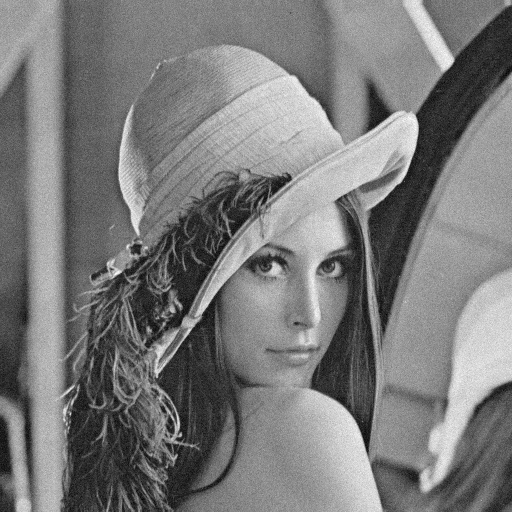
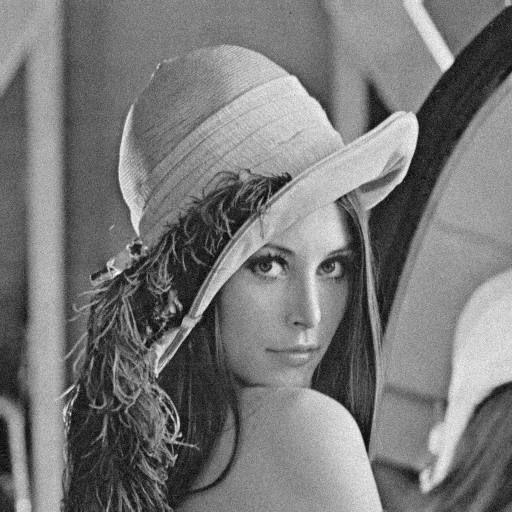
More work on assignment #3

diff --git a/src/image.py b/src/image.py
@@ -209,13 +209,26 @@ def zero_order_hold(
     )
 
 
-def gaussian_blur(image: Image, size: tuple[int, int] = (5, 5), sigma_x=0.5):
-    return cv2.GaussianBlur(image, size, sigma_x)
+# Found Gaussian functions online since I do not have the Matlab source code for those functions
+# listed in the assignment.
+def gaussian_blur(image: np.ndarray, size: tuple[int, int] = (5, 5), sigma: float = 0.5):
+    kx = cv2.getGaussianKernel(ksize=size[0], sigma=sigma)
+    ky = cv2.getGaussianKernel(ksize=size[1], sigma=sigma)
+    h_log = kx @ ky.T
+    blurred = cv2.filter2D(src=image, ddepth=-1, kernel=h_log)
+
+    return blurred
 
 
-def laplacian_of_gaussian(image: Image, size: tuple[int, int] = (5, 5), sigma_x=0.5):
-    gaussian_blurred = gaussian_blur(image, size, sigma_x)
-    return cv2.Laplacian(gaussian_blurred, ddepth=cv2.CV_64F)
+def create_log_gaussian_blur(size: int, sigma: float) -> np.ndarray:
+    ax = np.linspace(-(size // 2), size // 2, size)
+    xx, yy = np.meshgrid(ax, ax)
+    norm = (xx ** 2 + yy ** 2)
+
+    factor = (norm - 2 * sigma ** 2) / (sigma ** 4)
+    gaussian = np.exp(-norm / (2 * sigma ** 2))
+    log = factor * gaussian
+    return log - log.mean()
 
 
 def inverse_gamma_correction(image: np.ndarray, gamma: float = 2.5) -> np.ndarray:
@@ -226,7 +239,7 @@ def calculate_histogram(image: np.ndarray, bins: int = 2) -> np.ndarray:
     image_max = image.max()
     width = (image_max + 1) / bins
 
-    histogram = np.zeros(shape=(1, bins))
+    histogram = np.zeros(bins)
     for intensity in image.flatten():
         index = min(int(intensity / width), bins - 1)
         histogram[index] += 1
@@ -234,7 +247,7 @@ def calculate_histogram(image: np.ndarray, bins: int = 2) -> np.ndarray:
     return histogram
 
 
-def equalize_histogram(image: np.ndarray, bins: int = 2) -> np.ndarray:
+def normalized_histogram(image: np.ndarray, bins: int = 2) -> np.ndarray:
     cdf = calculate_histogram(image, bins).cumsum()
     cdf_normalized = cdf / cdf[-1]
     transform = np.floor(255 * cdf_normalized).astype(np.uint8)
@@ -357,24 +370,7 @@ def low_pass_decimation(
     corner_size_m = decimated_m // 2
     corner_size_n = decimated_n // 2
 
-    real_part = np.zeros(shape=(decimated_m, decimated_n))
-    complex_part = np.zeros(shape=(decimated_m, decimated_n), dtype=np.complex64)
     decimated_low_pass_image = np.zeros(shape=(decimated_m, decimated_n), dtype=np.complex64)
-
-    # I assume you want these two arrays to inspect? I am not entirely sure why we need
-    # two arrays to hold the real part and the imaginary part if we need to combine them
-    # to perform the inverse fft.
-    real_part[0:corner_size_m, 0:corner_size_n] = fft_image.real[0:corner_size_m, 0:corner_size_n]
-    real_part[0:corner_size_m, corner_size_n:decimated_n] = fft_image.real[0:corner_size_m, n - corner_size_n:n]
-    real_part[corner_size_m:decimated_m, 0:corner_size_n] = fft_image.real[m - corner_size_m:m, 0:corner_size_n]
-    real_part[corner_size_m:decimated_m, corner_size_n:decimated_n] = \
-        fft_image.real[m - corner_size_m:m, n - corner_size_n:n]
-
-    complex_part[0:corner_size_m, 0:corner_size_n] = fft_image.imag[0:corner_size_m, 0:corner_size_n]
-    complex_part[0:corner_size_m, corner_size_n:decimated_n] = fft_image.imag[0:corner_size_m, n - corner_size_n:n]
-    complex_part[corner_size_m:decimated_m, 0:corner_size_n] = fft_image.imag[m - corner_size_m:m, 0:corner_size_n]
-    complex_part[corner_size_m:decimated_m, corner_size_n:decimated_n] = \
-        fft_image.imag[m - corner_size_m:m:m, n - corner_size_n:n]
 
     decimated_low_pass_image[0:corner_size_m, 0:corner_size_n] = fft_image[0:corner_size_m, 0:corner_size_n]
     decimated_low_pass_image[0:corner_size_m, corner_size_n:decimated_n] = \
@@ -431,14 +427,14 @@ def mean_squared_error(
     return mse / (m * n)
 
 
-def add_gaussian_noise(image, mean=0, var=50):
+def gaussian_noise(image, mean=0, var=50):
     sigma = var ** 0.5
     gaussian = np.random.normal(mean, sigma, image.shape)
     noisy_img = image + gaussian
     return np.clip(noisy_img, 0, 255)
 
 
-def add_salt_pepper_noise(image, amount=0.05, salt_vs_pepper=0.5):
+def salt_pepper_noise(image, amount=0.05, salt_vs_pepper=0.5):
     noisy_img = np.copy(image)
     num_pixels = image.size
     num_salt = int(amount * num_pixels * salt_vs_pepper)
@@ -453,3 +449,12 @@ def add_salt_pepper_noise(image, amount=0.05, salt_vs_pepper=0.5):
     noisy_img[tuple(coords)] = 0
 
     return noisy_img
+
+
+def median_filter(image: np.ndarray, size: int = 3, n_times: int = 0) -> np.ndarray:
+    filtered_image = cv2.medianBlur(src=image, ksize=size)
+    if n_times > 0:
+        for i in range(n_times):
+            filtered_image = cv2.medianBlur(src=image, ksize=size)
+
+    return filtered_image

diff --git a/src/homework.py b/src/homework.py
@@ -1,26 +1,87 @@
 import logging
 import os
 
+import matplotlib.pyplot as plt
 from image import *
 from PIL import Image
 
 logger = logging.getLogger(__name__)
 
 
-def create_noisy_images(image1: Image.Image) -> None:
-    guassian = add_gaussian_noise(image_to_array(image=image1))
-    salt_and_pepper = add_salt_pepper_noise(image_to_array(image=image1))
+def pre_gamma_correct(image1: Image.Image) -> None:
+    save_image(
+        path=os.path.dirname(os.path.abspath(__file__)) + "/resources/images/generated/",
+        name="lena_gamma.png",
+        image=array_to_image(inverse_gamma_correction(image_to_array(image1)))
+    )
+
+
+def histograms(image1: Image.Image) -> None:
+    bin_values = [2, 128, 256]
+
+    gamma_path = str(os.path.join(
+        os.path.dirname(os.path.abspath(__file__)),
+        'resources/images/generated',
+        'lena_gamma.png'
+    ))
+    gamma_image = load_image(gamma_path)
+
+    for bin_value in bin_values:
+        histogram = calculate_histogram(image_to_array(image1), bins=bin_value)
+        bins = np.arange(start=0, stop=255, step=255 / bin_value)
+
+        plt.bar(bins, histogram, width=1.0, edgecolor='black')
+        plt.xlabel('Bin Index')
+        plt.ylabel('Count')
+        plt.title('Lena.png Histogram Plot')
+        plt.show()
+
+        gamma_histogram = calculate_histogram(image_to_array(gamma_image), bins=bin_value)
+        plt.bar(bins, gamma_histogram, width=1.0, edgecolor='black')
+        plt.xlabel('Bin Index')
+        plt.ylabel('Count')
+        plt.title('Gamma Corrected Histogram Plot')
+        plt.show()
+
+    save_image(
+        path=os.path.dirname(os.path.abspath(__file__)) + "/resources/images/generated/",
+        name="lena_histogram_normalized.png",
+        image=array_to_image(normalized_histogram(image_to_array(gamma_image), bins=256))
+    )
+
+
+def noisy_images(image1: Image.Image) -> None:
+    gaussian = gaussian_noise(image_to_array(image=image1))
+    salt_and_pepper = salt_pepper_noise(image_to_array(image=image1))
 
     save_image(
         path=os.path.dirname(os.path.abspath(__file__)) + "/resources/images/generated/",
         name="lena_g.png",
-        image=array_to_image(guassian)
+        image=array_to_image(gaussian)
     )
 
     save_image(
         path=os.path.dirname(os.path.abspath(__file__)) + "/resources/images/generated/",
         name="lena_s.png",
         image=array_to_image(salt_and_pepper)
+    )
+
+    save_image(
+        path=os.path.dirname(os.path.abspath(__file__)) + "/resources/images/generated/",
+        name="lena_s_median_1.png",
+        image=array_to_image(median_filter(image=salt_and_pepper, n_times=1))
+    )
+
+    save_image(
+        path=os.path.dirname(os.path.abspath(__file__)) + "/resources/images/generated/",
+        name="lena_g_median_1.png",
+        image=array_to_image(median_filter(image=gaussian))
+    )
+
+    save_image(
+        path=os.path.dirname(os.path.abspath(__file__)) + "/resources/images/generated/",
+        name="lena_s_median_50.png",
+        image=array_to_image(median_filter(image=salt_and_pepper, n_times=50))
     )
 
 
@@ -40,4 +101,6 @@ def run_homework_steps():
     lena_raw = load_raw_image(image1_path)
     lena_png = load_image(image2_path)
 
-    create_noisy_images(lena_raw)
+    pre_gamma_correct(lena_png)
+    histograms(lena_png)
+    noisy_images(lena_raw)
